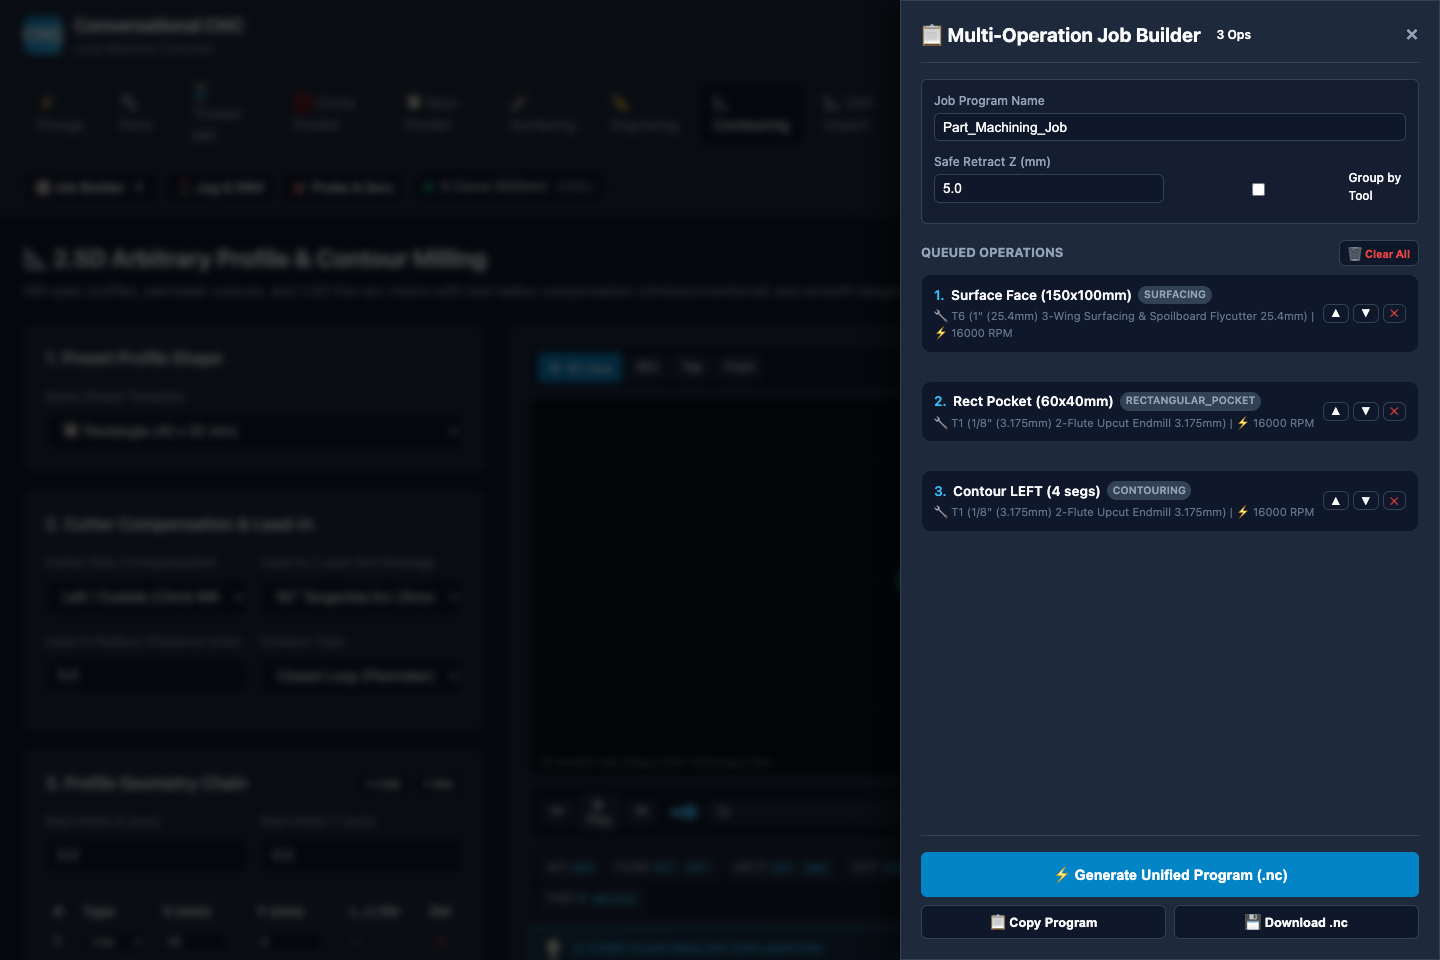
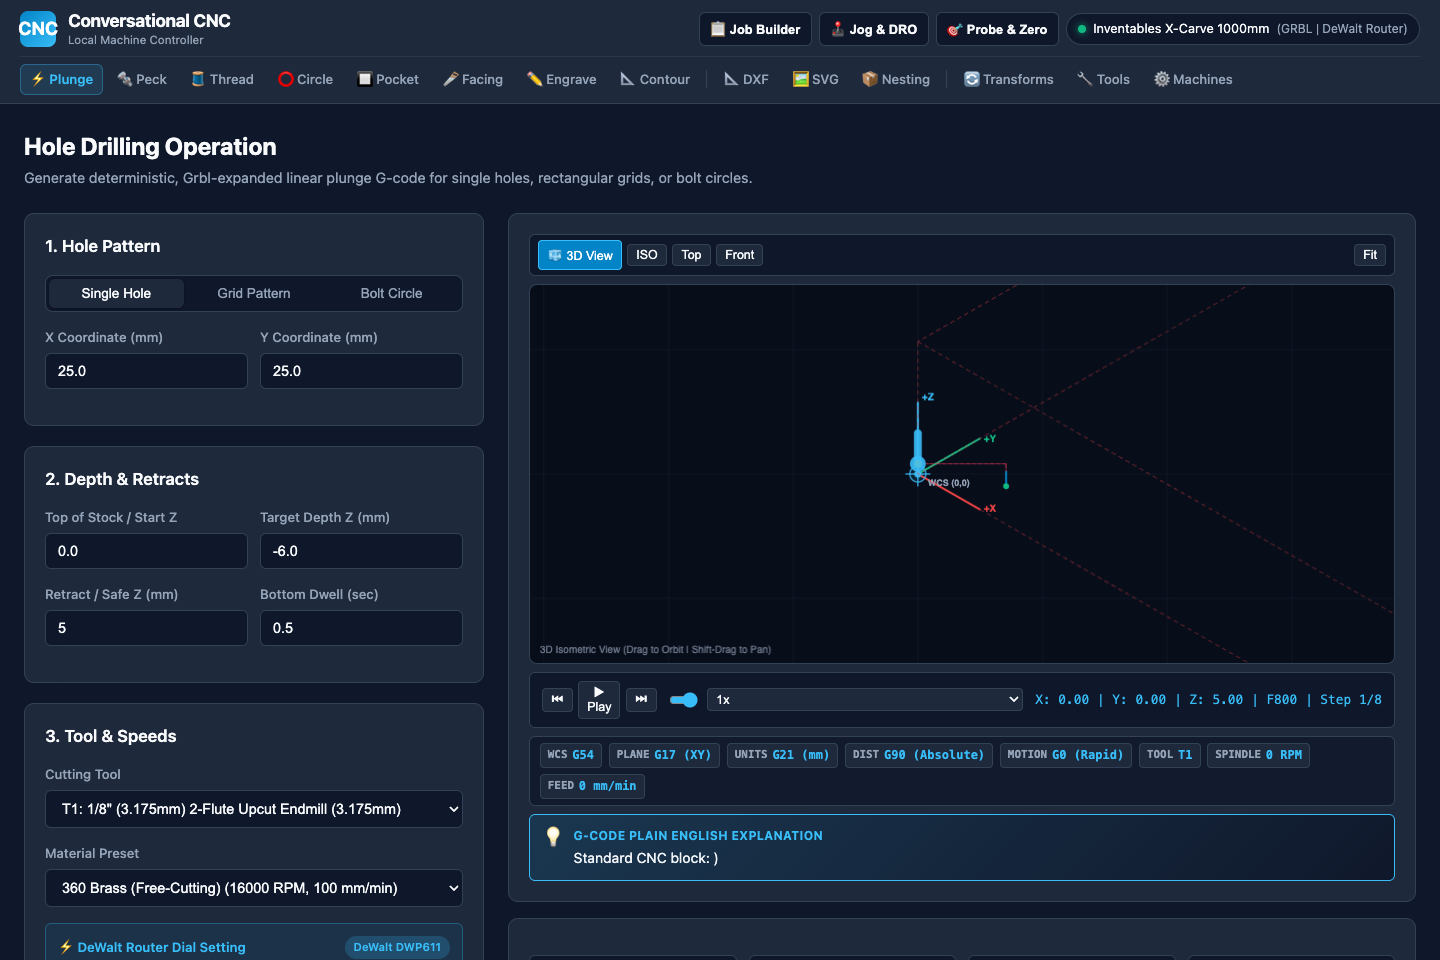
UI Updates

diff --git a/backend/app/templates/base.html b/backend/app/templates/base.html
@@ -11,49 +11,52 @@
 
   <!-- Top Navigation Bar -->
   <header>
-    <a href="/drilling" class="logo-area">
-      <div class="logo-icon">CNC</div>
-      <div>
-        <div class="logo-title">Conversational CNC</div>
-        <div class="logo-subtitle">Local Machine Controller</div>
-      </div>
-    </a>
-
-    <nav>
-      <a href="/drilling" class="nav-link {% if request.path == '/' or request.path == '/drilling' %}active{% endif %}" title="Straight Plunge Drilling">⚡ Plunge</a>
-      <a href="/peck-drilling" class="nav-link {% if request.path == '/peck-drilling' %}active{% endif %}" title="Deep Hole Peck Drilling">🔩 Peck</a>
-      <a href="/thread-milling" class="nav-link {% if request.path == '/thread-milling' %}active{% endif %}" title="Helical Thread Milling">🧵 Thread Mill</a>
-      <a href="/circular-pocket" class="nav-link {% if request.path == '/circular-pocket' %}active{% endif %}" title="Circular Pocketing & Helical Boring">⭕ Circle Pocket</a>
-      <a href="/rectangular-pocket" class="nav-link {% if request.path == '/rectangular-pocket' %}active{% endif %}" title="Rectangular Pocket & Island Boss">🔲 Rect Pocket</a>
-      <a href="/surfacing" class="nav-link {% if request.path == '/surfacing' %}active{% endif %}" title="Workpiece & Spoilboard Facing">🪚 Surfacing</a>
-      <a href="/engraving" class="nav-link {% if request.path == '/engraving' %}active{% endif %}" title="Text Engraving (Linear & Arc)">✏ Engraving</a>
-      <a href="/contouring" class="nav-link {% if request.path == '/contouring' %}active{% endif %}" title="2.5D Arbitrary Profile & Contour Milling">📐 Contouring</a>
-      <a href="/dxf" class="nav-link {% if request.path == '/dxf' %}active{% endif %}" title="DXF 2D Vector CAD Importer">📐 DXF Import</a>
-      <a href="/svg" class="nav-link {% if request.path == '/svg' %}active{% endif %}" title="SVG 2D Vector CAD Importer with Grayscale Depth">🖼 SVG Import</a>
-      <a href="/nesting" class="nav-link {% if request.path == '/nesting' %}active{% endif %}" title="Step-and-Repeat Array Nesting & Soft Jaw Fixturing">📦 Nesting & Jaws</a>
-
-      <a href="/transformations" class="nav-link {% if request.path == '/transformations' %}active{% endif %}" title="G-Code Transforms & Multi-Tool Splitter">🔄 Transforms</a>
-      <a href="/tools" class="nav-link {% if request.path == '/tools' %}active{% endif %}" title="Tool & Presets Library">🔧 Tools</a>
-      <a href="/machines" class="nav-link {% if request.path == '/machines' %}active{% endif %}" title="Machine Profiles">⚙ Machines</a>
-    </nav>
-
-
-
-
-
-
-
-    <div class="header-status" style="display: flex; align-items: center; gap: 0.5rem;">
-      <button type="button" class="btn btn-secondary btn-sm" id="openJobDrawerBtn" title="Open Multi-Operation Job Builder Drawer" style="font-size: 0.8rem; padding: 0.3rem 0.6rem; display: flex; align-items: center; gap: 0.35rem;"><span>📋 Job Builder</span><span class="badge" id="navJobQueueCount" style="background: var(--primary-color); color: white; border-radius: 9999px; padding: 0.1rem 0.35rem; font-size: 0.7rem; display: none;">0</span></button>
-      <button type="button" class="btn btn-secondary btn-sm" id="openJogModalBtn" title="Open Manual Jog Controller & Live DRO (Hotkey: J)" style="font-size: 0.8rem; padding: 0.3rem 0.6rem;">🕹 Jog & DRO</button>
-      <button type="button" class="btn btn-secondary btn-sm" id="openProbingModalBtn" title="Open Z-Probe & XYZ Corner Zeroing Helper" style="font-size: 0.8rem; padding: 0.3rem 0.6rem;">🎯 Probe & Zero</button>
-      <a href="/machines" class="machine-badge" title="Active Machine Profile">
-        <span class="status-dot"></span>
-        <span id="activeMachineName">X-Carve 1000mm</span>
-        <span id="activeMachineDialect" style="color: var(--text-muted); font-size: 0.75rem;">(GRBL)</span>
+    <div class="header-top">
+      <a href="/drilling" class="logo-area">
+        <div class="logo-icon">CNC</div>
+        <div>
+          <div class="logo-title">Conversational CNC</div>
+          <div class="logo-subtitle">Local Machine Controller</div>
+        </div>
       </a>
+
+      <div class="header-status">
+        <button type="button" class="btn btn-secondary btn-sm" id="openJobDrawerBtn" title="Open Multi-Operation Job Builder Drawer" style="font-size: 0.8rem; padding: 0.35rem 0.65rem; display: flex; align-items: center; gap: 0.35rem;"><span>📋 Job Builder</span><span class="badge" id="navJobQueueCount" style="background: var(--primary-color); color: white; border-radius: 9999px; padding: 0.1rem 0.35rem; font-size: 0.7rem; display: none;">0</span></button>
+        <button type="button" class="btn btn-secondary btn-sm" id="openJogModalBtn" title="Open Manual Jog Controller & Live DRO (Hotkey: J)" style="font-size: 0.8rem; padding: 0.35rem 0.65rem;">🕹 Jog & DRO</button>
+        <button type="button" class="btn btn-secondary btn-sm" id="openProbingModalBtn" title="Open Z-Probe & XYZ Corner Zeroing Helper" style="font-size: 0.8rem; padding: 0.35rem 0.65rem;">🎯 Probe & Zero</button>
+        <a href="/machines" class="machine-badge" title="Active Machine Profile">
+          <span class="status-dot"></span>
+          <span id="activeMachineName">X-Carve 1000mm</span>
+          <span id="activeMachineDialect" style="color: var(--text-muted); font-size: 0.75rem;">(GRBL)</span>
+        </a>
+      </div>
     </div>
 
+    <nav class="nav-bar">
+      <!-- 2.5D Milling Operations -->
+      <a href="/drilling" class="nav-link {% if request.path == '/' or request.path == '/drilling' %}active{% endif %}" title="Straight Plunge Drilling">⚡ Plunge</a>
+      <a href="/peck-drilling" class="nav-link {% if request.path == '/peck-drilling' %}active{% endif %}" title="Deep Hole Peck Drilling">🔩 Peck</a>
+      <a href="/thread-milling" class="nav-link {% if request.path == '/thread-milling' %}active{% endif %}" title="Single-Point Helical Thread Milling">🧵 Thread</a>
+      <a href="/circular-pocket" class="nav-link {% if request.path == '/circular-pocket' %}active{% endif %}" title="Circular Pocketing & Helical Boring">⭕ Circle</a>
+      <a href="/rectangular-pocket" class="nav-link {% if request.path == '/rectangular-pocket' %}active{% endif %}" title="Rectangular Pocket & Island Boss Machining">🔲 Pocket</a>
+      <a href="/surfacing" class="nav-link {% if request.path == '/surfacing' %}active{% endif %}" title="Workpiece & Spoilboard Facing">🪚 Facing</a>
+      <a href="/engraving" class="nav-link {% if request.path == '/engraving' %}active{% endif %}" title="Single-Line Vector Text Engraving (Linear & Arc)">✏ Engrave</a>
+      <a href="/contouring" class="nav-link {% if request.path == '/contouring' %}active{% endif %}" title="2.5D Arbitrary Profile & Contour Milling with Tabs">📐 Contour</a>
+
+      <div class="nav-divider"></div>
+
+      <!-- Vector CAD & Nesting -->
+      <a href="/dxf" class="nav-link {% if request.path == '/dxf' %}active{% endif %}" title="AutoCAD DXF 2D Vector CAD Importer">📐 DXF</a>
+      <a href="/svg" class="nav-link {% if request.path == '/svg' %}active{% endif %}" title="SVG 2D Vector CAD Importer with Grayscale Depth Mapping">🖼 SVG</a>
+      <a href="/nesting" class="nav-link {% if request.path == '/nesting' %}active{% endif %}" title="Step-and-Repeat Array Nesting & Vise Soft Jaw Fixturing">📦 Nesting</a>
+
+      <div class="nav-divider"></div>
+
+      <!-- Tooling & System -->
+      <a href="/transformations" class="nav-link {% if request.path == '/transformations' %}active{% endif %}" title="G-Code Coordinate Transforms & Multi-Tool Splitter">🔄 Transforms</a>
+      <a href="/tools" class="nav-link {% if request.path == '/tools' %}active{% endif %}" title="Cutting Tool & Material Feeds/Speeds Presets Library">🔧 Tools</a>
+      <a href="/machines" class="nav-link {% if request.path == '/machines' %}active{% endif %}" title="Machine Profiles & Post-Processor Configuration">⚙ Machines</a>
+    </nav>
   </header>
 
   <!-- Main Content Body -->

diff --git a/backend/app/static/css/style.css b/backend/app/static/css/style.css
@@ -32,16 +32,22 @@ body {
   flex-direction: column;
 }
 
-/* Header & Navbar */
+/* Header & Top Navigation Bar */
 header {
   background-color: var(--bg-card);
   border-bottom: 1px solid var(--border-color);
-  padding: 0.75rem 1.5rem;
+  padding: 0.6rem 1.25rem 0.5rem 1.25rem;
+  display: flex;
+  flex-direction: column;
+  gap: 0.5rem;
+}
+
+.header-top {
   display: flex;
   justify-content: space-between;
   align-items: center;
   flex-wrap: wrap;
-  gap: 1rem;
+  gap: 0.75rem;
 }
 
 .logo-area {
@@ -50,69 +56,111 @@ header {
   gap: 0.75rem;
   text-decoration: none;
   color: var(--text-main);
+  flex-shrink: 0;
 }
 
 .logo-icon {
   background: linear-gradient(135deg, #0284c7, #38bdf8);
   color: white;
-  width: 38px;
-  height: 38px;
+  width: 36px;
+  height: 36px;
   border-radius: 8px;
   display: flex;
   align-items: center;
   justify-content: center;
   font-weight: bold;
-  font-size: 1.2rem;
+  font-size: 1.15rem;
 }
 
 .logo-title {
-  font-size: 1.15rem;
+  font-size: 1.1rem;
   font-weight: 700;
   letter-spacing: -0.02em;
+  line-height: 1.2;
 }
 
 .logo-subtitle {
-  font-size: 0.75rem;
+  font-size: 0.72rem;
   color: var(--text-muted);
   font-weight: normal;
-}
-
-nav {
-  display: flex;
-  align-items: center;
-  gap: 0.5rem;
-}
-
-.nav-link {
-  color: var(--text-muted);
-  text-decoration: none;
-  padding: 0.5rem 0.85rem;
-  border-radius: 6px;
-  font-size: 0.9rem;
-  font-weight: 500;
-  transition: all 0.15s ease;
-}
-
-.nav-link:hover, .nav-link.active {
-  color: var(--text-main);
-  background-color: var(--bg-input);
 }
 
 .header-status {
   display: flex;
   align-items: center;
-  gap: 0.75rem;
+  flex-wrap: wrap;
+  gap: 0.45rem;
+}
+
+/* Operations Nav Bar */
+nav.nav-bar {
+  display: flex;
+  align-items: center;
+  flex-wrap: wrap;
+  gap: 0.25rem;
+  border-top: 1px solid rgba(51, 65, 85, 0.6);
+  padding-top: 0.45rem;
+  overflow-x: auto;
+  -webkit-overflow-scrolling: touch;
+  scrollbar-width: thin;
+  scrollbar-color: var(--border-color) transparent;
+}
+
+nav.nav-bar::-webkit-scrollbar {
+  height: 4px;
+}
+
+nav.nav-bar::-webkit-scrollbar-thumb {
+  background: var(--border-color);
+  border-radius: 4px;
+}
+
+.nav-link {
+  color: var(--text-muted);
+  text-decoration: none;
+  padding: 0.28rem 0.55rem;
+  border-radius: 6px;
+  font-size: 0.82rem;
+  font-weight: 500;
+  white-space: nowrap;
+  display: inline-flex;
+  align-items: center;
+  gap: 0.25rem;
+  transition: all 0.15s ease;
+  background-color: transparent;
+  border: 1px solid transparent;
+}
+
+.nav-link:hover {
+  color: var(--text-main);
+  background-color: var(--bg-card-hover);
+  border-color: rgba(255, 255, 255, 0.05);
+}
+
+.nav-link.active {
+  color: #38bdf8;
+  background-color: rgba(56, 189, 248, 0.12);
+  border-color: rgba(56, 189, 248, 0.35);
+  font-weight: 600;
+}
+
+.nav-divider {
+  width: 1px;
+  height: 18px;
+  background-color: var(--border-color);
+  margin: 0 0.15rem;
+  flex-shrink: 0;
 }
 
 .machine-badge {
   background-color: var(--bg-input);
   border: 1px solid var(--border-color);
-  padding: 0.35rem 0.75rem;
+  padding: 0.35rem 0.7rem;
   border-radius: 20px;
-  font-size: 0.82rem;
+  font-size: 0.8rem;
   display: flex;
   align-items: center;
-  gap: 0.5rem;
+  gap: 0.45rem;
   cursor: pointer;
   text-decoration: none;
   color: var(--text-main);
@@ -164,6 +212,43 @@ main {
 @media (max-width: 1024px) {
   .two-col-grid {
     grid-template-columns: 1fr;
+  }
+}
+
+@media (max-width: 900px) {
+  header {
+    padding: 0.5rem 0.85rem;
+  }
+  .header-top {
+    flex-direction: column;
+    align-items: stretch;
+    gap: 0.5rem;
+  }
+  .header-status {
+    justify-content: space-between;
+    overflow-x: auto;
+    padding-bottom: 0.2rem;
+  }
+  nav.nav-bar {
+    gap: 0.25rem;
+    padding-top: 0.35rem;
+  }
+  .nav-link {
+    padding: 0.28rem 0.5rem;
+    font-size: 0.8rem;
+  }
+}
+
+@media (max-width: 640px) {
+  .logo-title {
+    font-size: 1rem;
+  }
+  .logo-subtitle {
+    display: none;
+  }
+  .header-status button, .machine-badge {
+    font-size: 0.75rem !important;
+    padding: 0.25rem 0.45rem !important;
   }
 }
 
